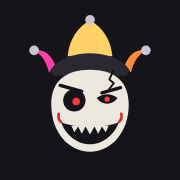
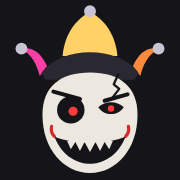
style: Maske im App-Symbol grösser, eigene Android-Variante mit Rand (#2)
Claude-Session: https://claude.ai/code/session_01M79Fp6kpLLKJ1fBnEuW4sT

diff --git a/CLAUDE.md b/CLAUDE.md
@@ -34,7 +34,7 @@ GitHub Pages (Gratis-Plan) geht nur mit öffentlichen Repos. Ausdrücklich vom N
 - Abstände 4/8/12/16/24/32/48, Radien 8/14.
 
 ## App-Symbol
-`icon.svg` ist die Vorlage (auch Favicon): eigene Spielleiter-Maske mit Narrenkappe, Zipfel in Pink/Gold/Orange (Spielfarben), Schellen neutral – bewusst keine bestehende Figur nachbilden. Inhalt bleibt im inneren 80-%-Kreis (gilt auch als «maskable» für Android). PNGs neu rendern (Playwright vorhanden):
+`icon.svg` ist die Vorlage (auch Favicon): eigene Spielleiter-Maske mit Narrenkappe, Zipfel in Pink/Gold/Orange (Spielfarben), Schellen neutral – bewusst keine bestehende Figur nachbilden. Die Maske füllt das Symbol fast ganz (iPhone schneidet nur die Ecken ab). Für Android gibt es `icon-maskable.svg` → `icon-maskable-512.png` mit Rand: dort bleibt alles im inneren 80-%-Kreis, weil Android das Symbol rund oder anders zuschneiden kann. PNGs neu rendern (Playwright vorhanden; für die Android-Variante `icon-maskable.svg` → `icon-maskable-512.png`):
 ```
 node -e 'const {chromium}=require("playwright");(async()=>{const b=await chromium.launch(),s=require("fs").readFileSync("icon.svg","utf8");for(const n of [180,192,512]){const p=await b.newPage({viewport:{width:n,height:n}});await p.setContent(`<style>html,body{margin:0}svg{display:block;width:${n}px;height:${n}px}</style>`+s);await p.screenshot({path:`icon-${n}.png`})}await b.close()})()'
 ```
